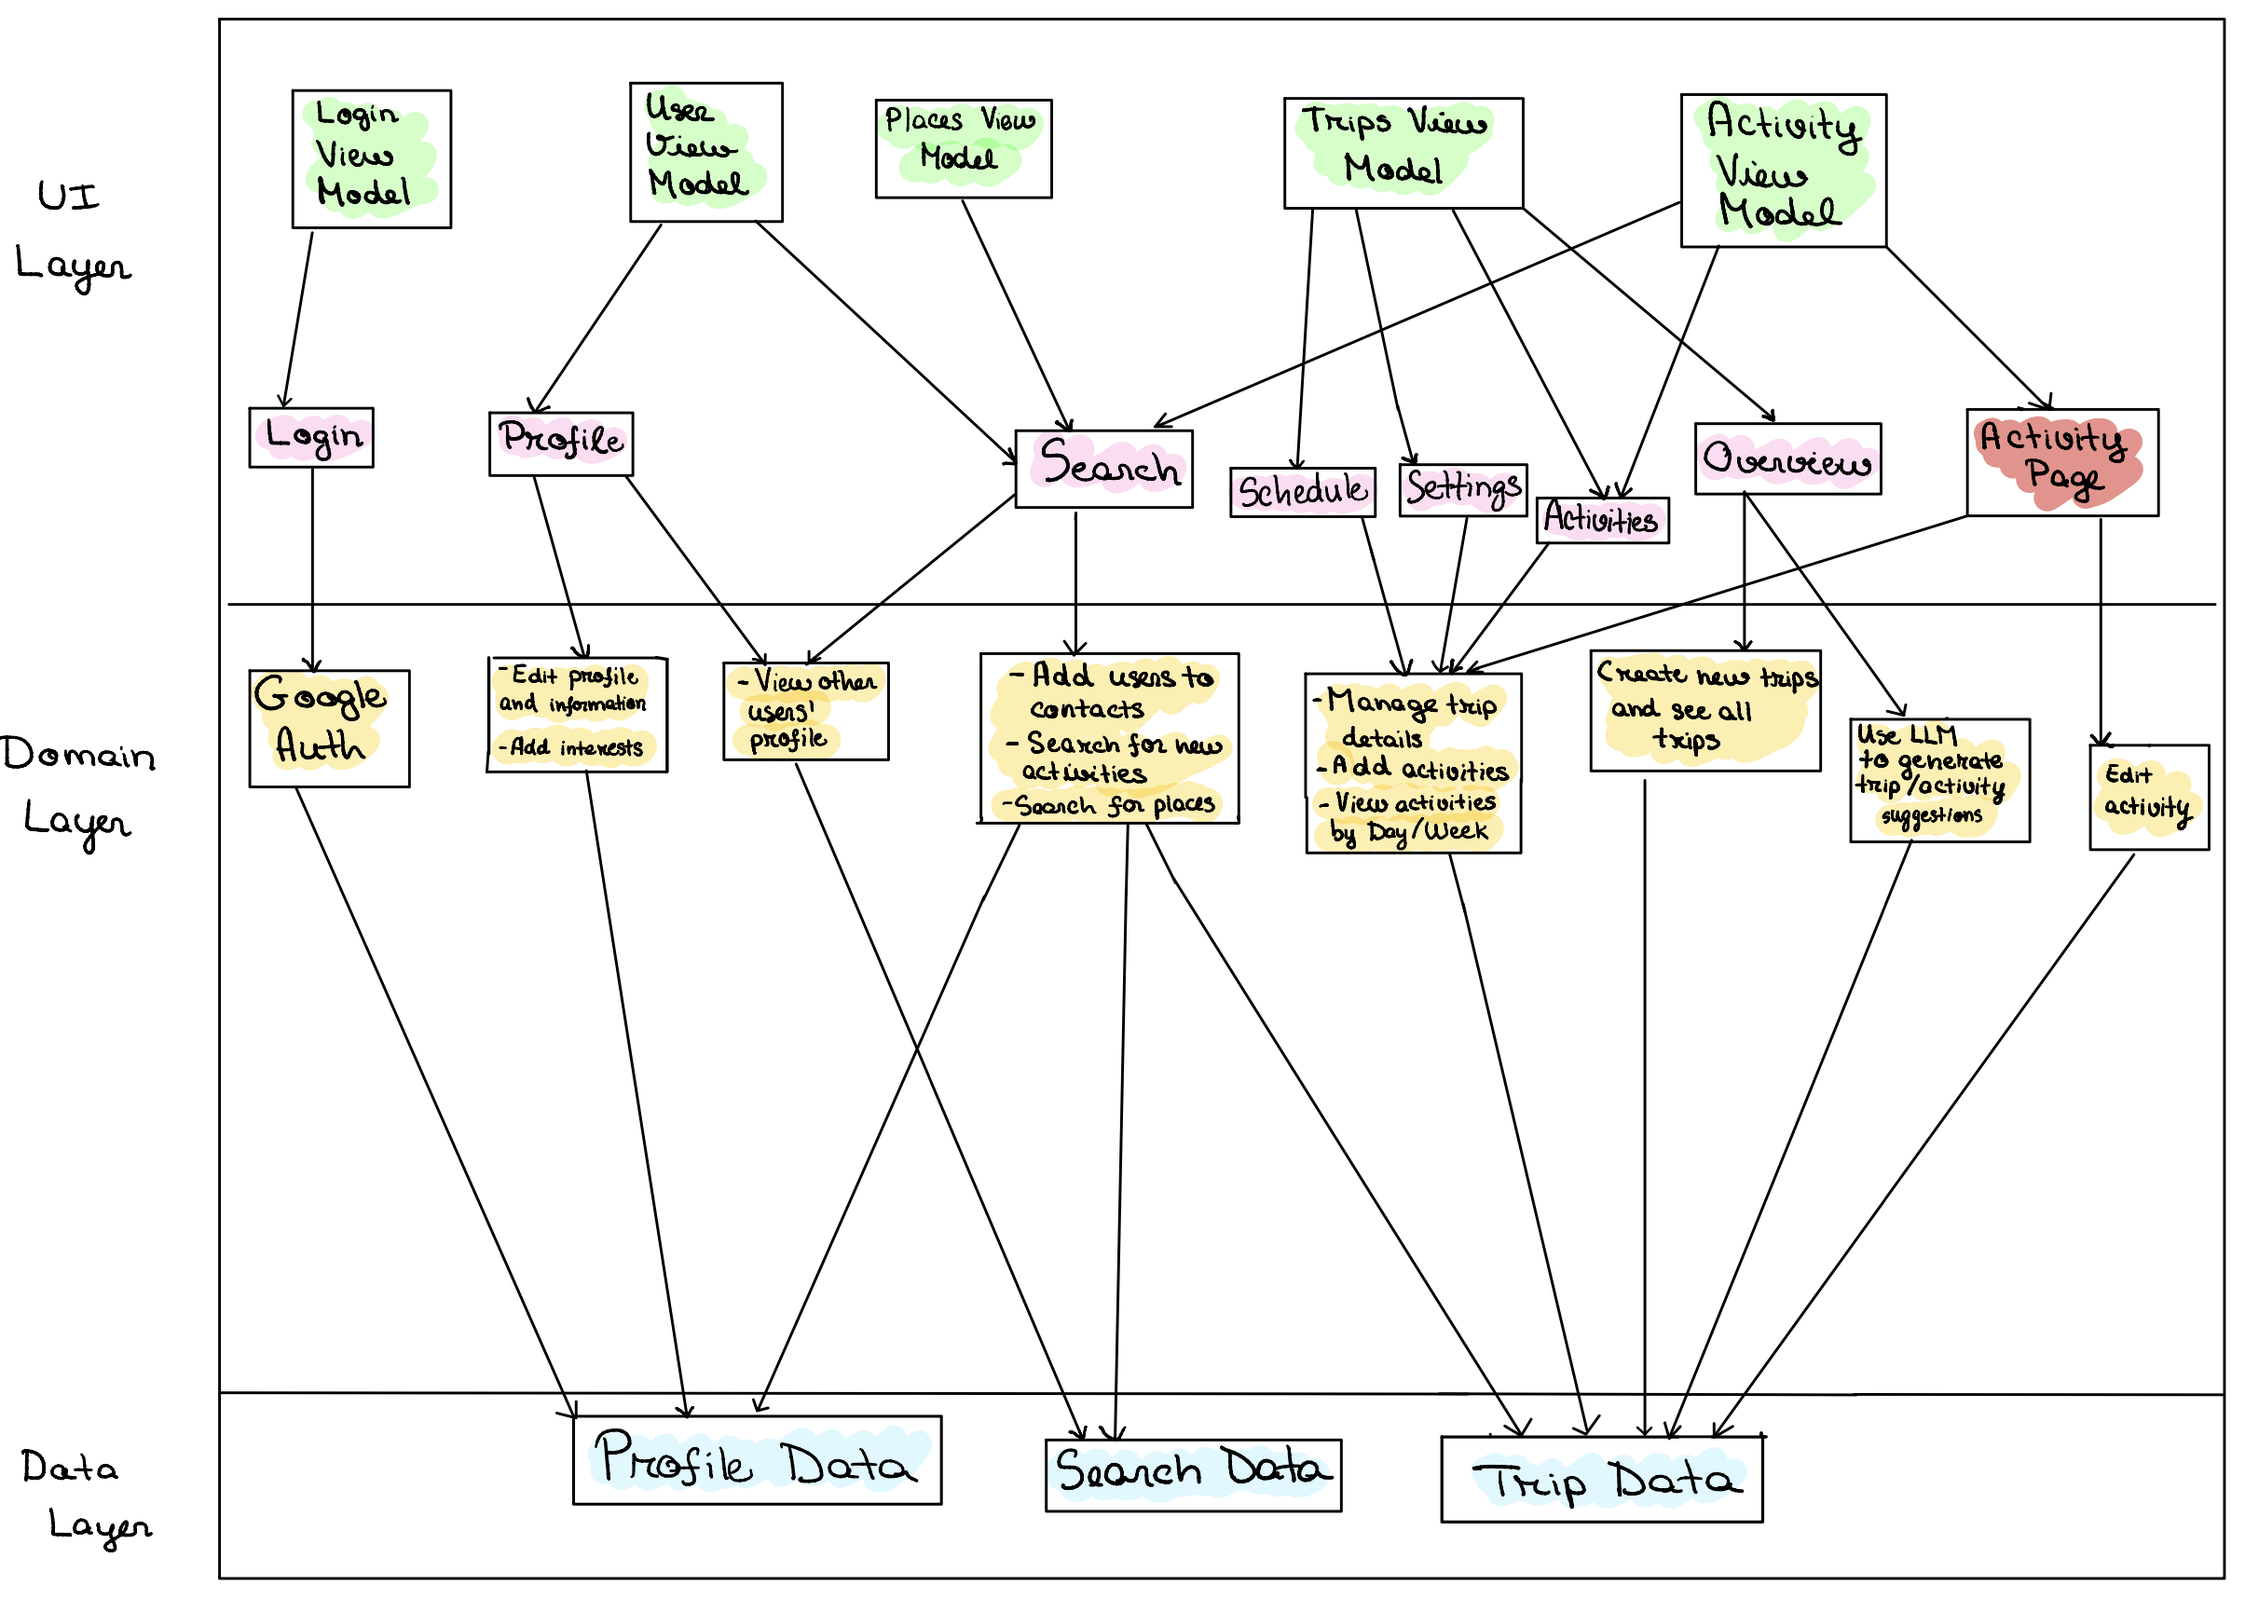
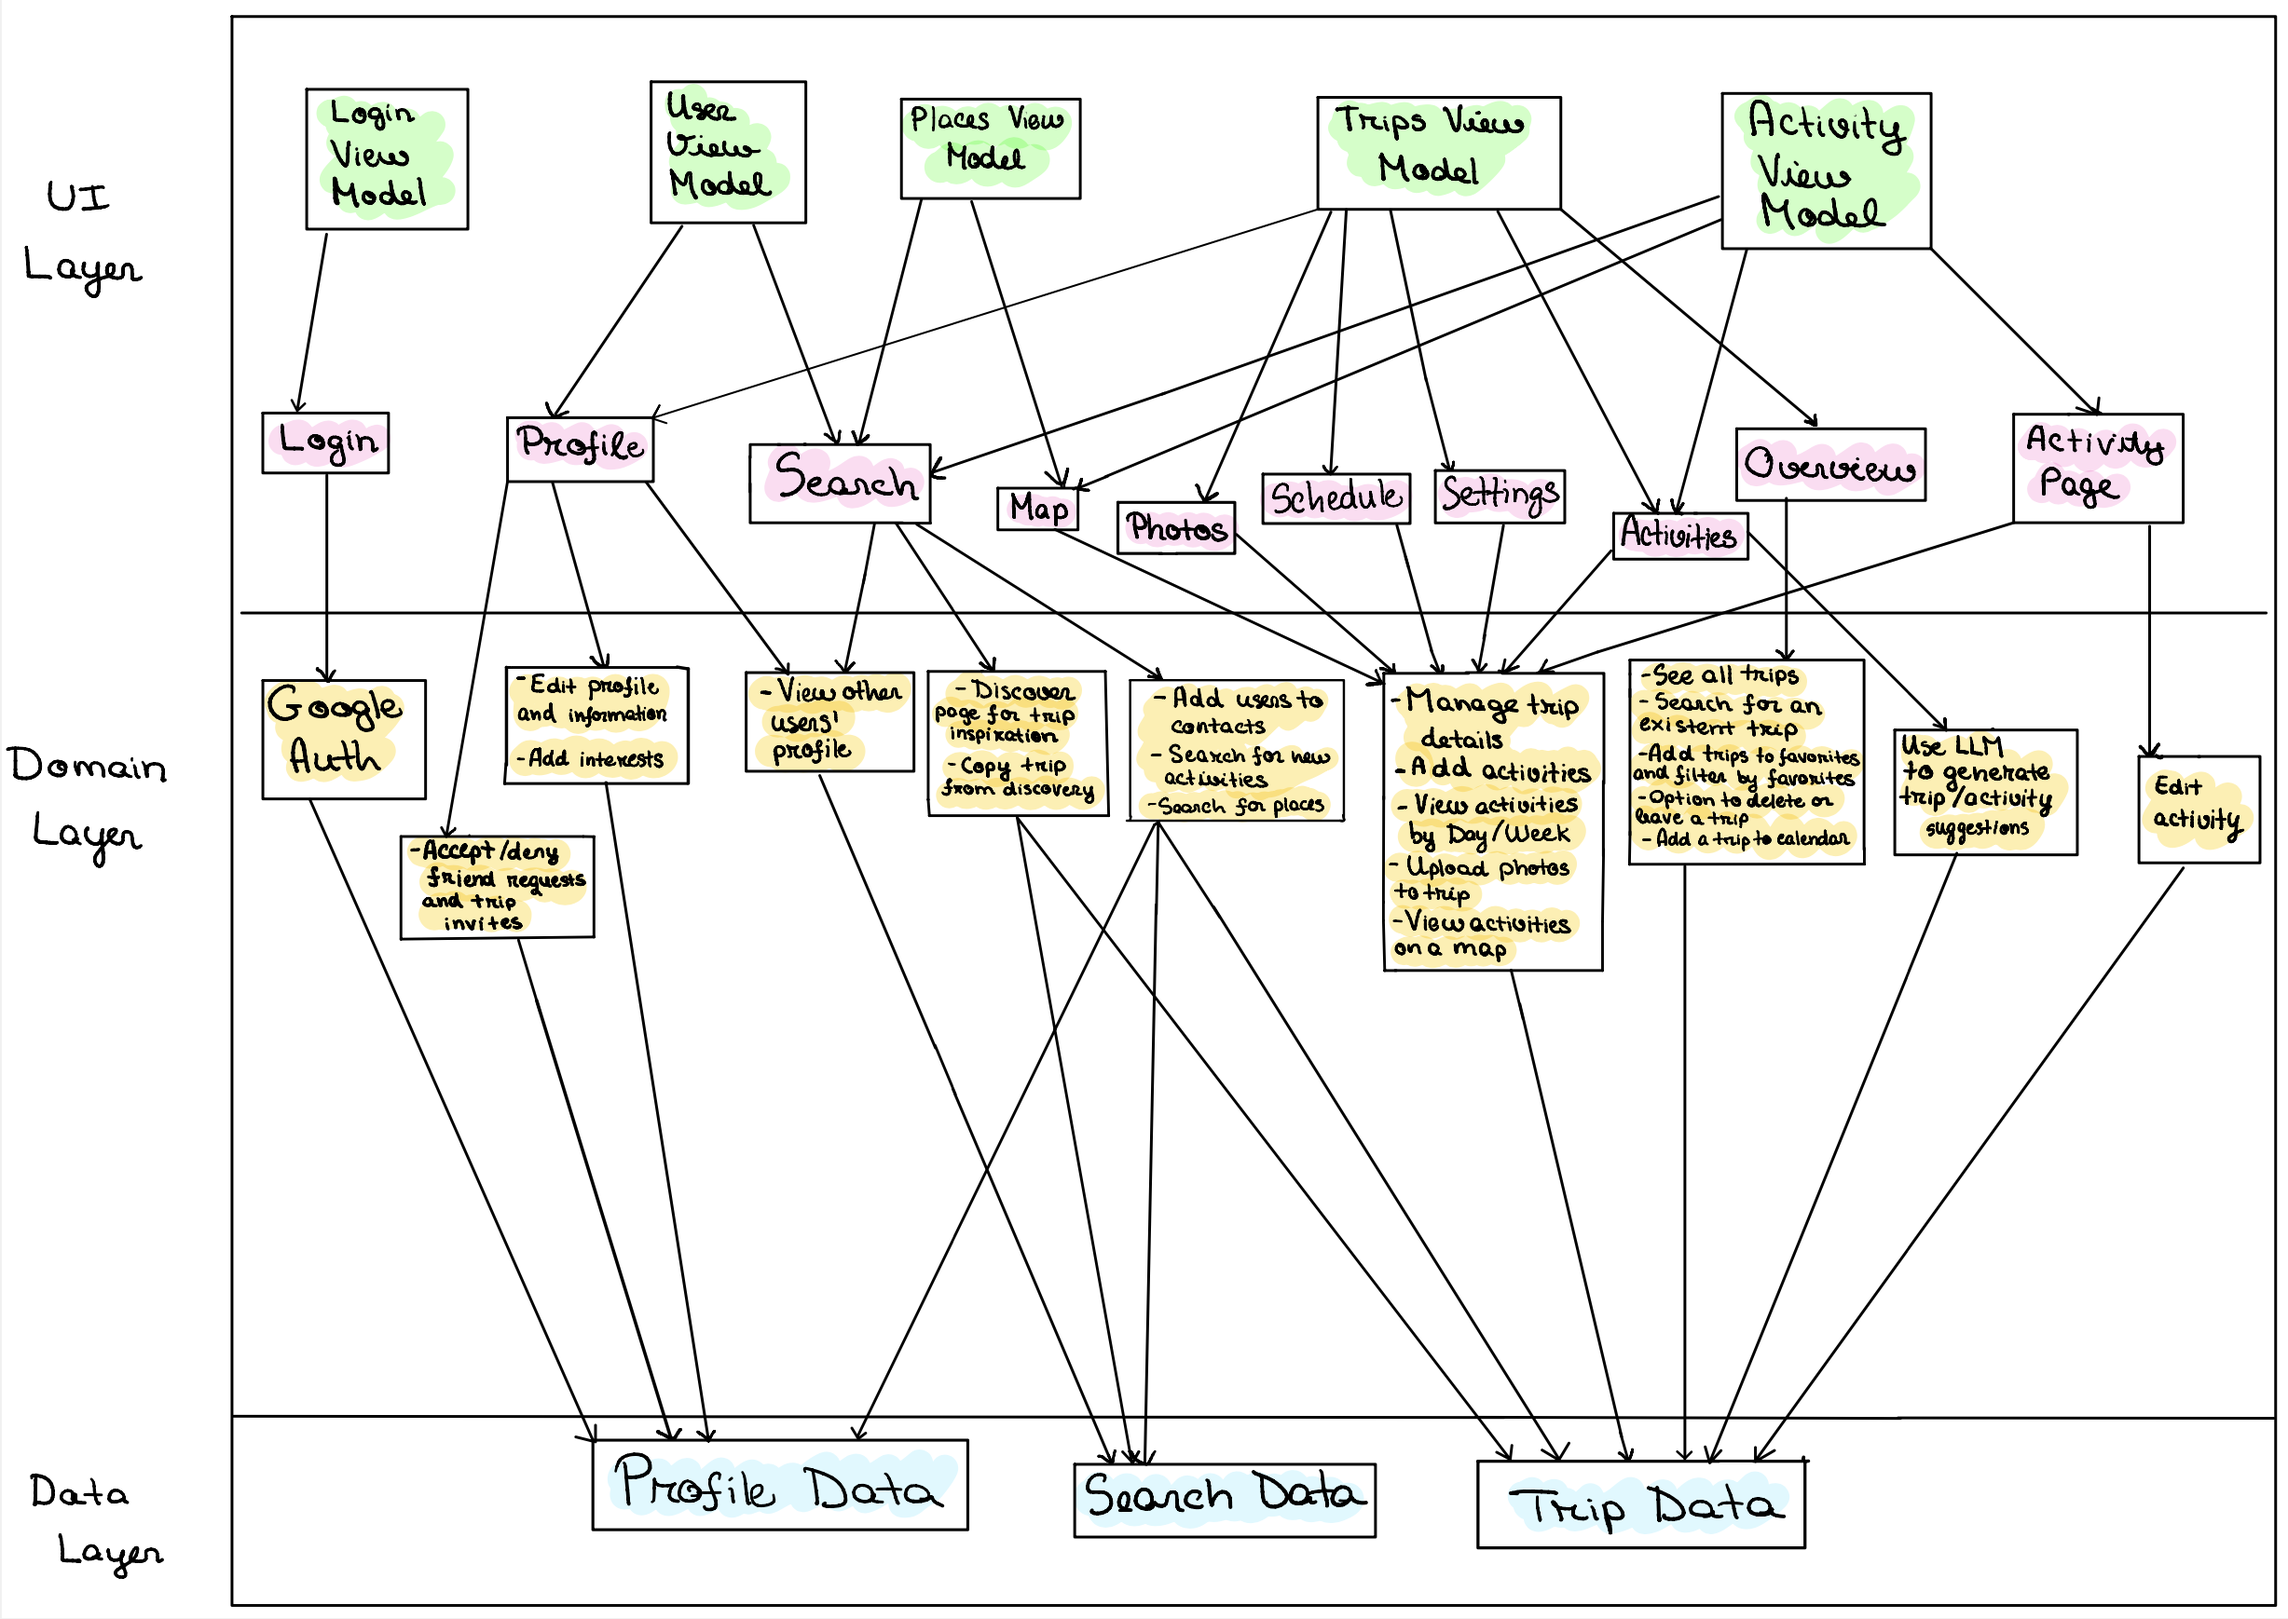
feat: update architecture diagram and README.

diff --git a/README.md b/README.md
@@ -9,17 +9,26 @@ Travelers often struggle with organizing all their ideas and options when planni
 - James, a 40-year-old business traveler looking to make the most of limited free time during work trips and needs a fast way to get a clear hour-by-hour schedule.
 
 ### Multi-user support
-
 - Google authenticator for secure authentication during login.
-- Users can create multiple trips, invite others to collaborate, and assign different permissions (view-only or editing rights).
-- Role-based access control (RBAC) ensures that only authorized users can edit or view trip details.
+- Users can create multiple trips, invite others to collaborate
 - Real-time sync ensures seamless collaboration and updates when multiple users work on the same trip.
+- Participants can edit trip details / leave or delete the trip. They can also add photos that are shared with each other
+
+### Social Aspect
+- Users can decide to make the trip public, so other people can discover it via their feed page.
+- Friend requests and trip invites ensure that the users are not added to trips by bad actors / spammers.
+
+### Other features
+- Users can search for their acquaintances and add them as "friends"
+- They can also search for places and activities and view relevant information such as opening hours, address and photos
+- They can add interests in the profile page that will be taken into account by the AI assistant when generating trip and activity suggestions
 
 ### Sensor use
-GPS is used to find nearby restaurants, museums, and activities based on the user's current location.
-
+- GPS is used to find nearby restaurants, museums, and activities based on the user's current location.
+- The camera is used to change the trip's thumbnail, change profile picture and add shared pictures.
+- 
 ### Offline mode
-- Users can save travel ideas (restaurants, museums, activities) offline and still access them without network connectivity.
-- Previously planned schedules or itineraries can be downloaded and viewed offline, allowing for uninterrupted access even in areas with poor connectivity.
-- A “Connected” vs. “Offline” status indicator informs users of their current connectivity, prompting a refresh when back online.
-- While offline, users will see prompts or buttons to retry certain actions that depend on live API calls, like finding new locations or generating updated itineraries.
+- Previously planned schedules are still available offline, allowing for uninterrupted access even in areas with poor connectivity.
+- The search for users and the feed still work even without connexion, though a bit slower
+- When the user goes offline a red banner will be displayed until they reconnect and certain functions are disabled
+- Photos for users and trips are cached so available offline.
